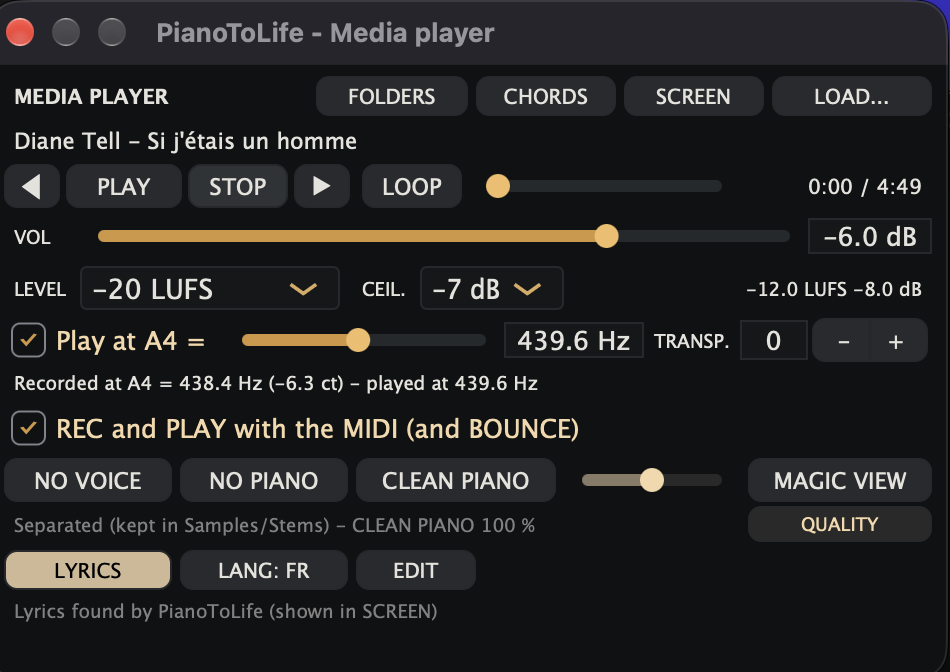
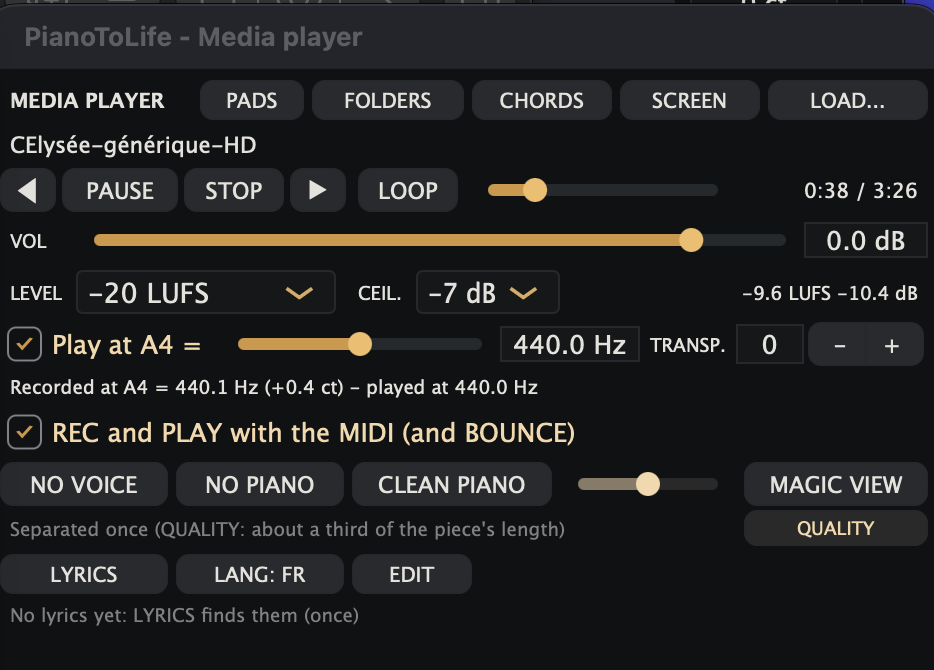
Add files via upload

diff --git a/README.md b/README.md
@@ -6,7 +6,7 @@ with one live, physically modelled string engine — from a single held key to e
 <p align="center"><b>New in 10:</b> no hosted piano needed — play your own samples with the built-in sampler.<br>Pedal-up samples are enough: resonance, pedals and noises are modelled live (hybrid sampling + modelling).</p>
 
 <p align="center">
-  <img src="Screenshot-A.png?v=1124" alt="PianoToLife: the main window (SAMPLER mode, a sampled Steinway B)" width="900">
+  <img src="Screenshot-A.png?v=1125" alt="PianoToLife: the main window (SAMPLER mode, a sampled Steinway B)" width="900">
 </p>
 
 <p align="center">
@@ -53,7 +53,7 @@ release or resonance samples. A 3- to 6-layer pedal-up library is enough: PianoT
 so it plays like a deeply sampled piano, even when the library is badly cut or normalised.
 
 <p align="center">
-  <img src="Screenshot-E.png?v=1124" alt="SAMPLER EDIT: the DRY / DENOISE / BODY panel" width="900">
+  <img src="Screenshot-E.png?v=1125" alt="SAMPLER EDIT: the DRY / DENOISE / BODY panel" width="900">
 </p>
 
 
@@ -63,7 +63,7 @@ Load a song, a playlist, a folder or a video, and play your piano with it. The M
 (29 EUR or 29 USD minimum, one payment, no subscription; 3 minutes of demo per session without the password).
 
 <p align="center">
-  <img src="Screenshot-B.png?v=1124" alt="The MEDIA player: FOLDERS, LEVEL and CEIL., Play at A4 and TRANSP., NO VOICE / NO PIANO / CLEAN PIANO, LYRICS" width="640">
+  <img src="Screenshot-B.png?v=1125" alt="The MEDIA player: PADS, FOLDERS, LEVEL and CEIL., Play at A4 and TRANSP., NO VOICE / NO PIANO / CLEAN PIANO, LYRICS" width="640">
 </p>
 
 - **NO VOICE / NO PIANO / CLEAN PIANO**: the piece separated once on your computer (kept in Samples/Stems), then played
@@ -72,11 +72,17 @@ Load a song, a playlist, a folder or a video, and play your piano with it. The M
   moves it up to 6 semitones higher or lower, its tempo kept. Both are remembered for each piece.
 - **LEVEL and CEIL.**: every file at the same loudness (-14 to -23 LUFS), its own true-peak ceiling (-1 to -7 dB).
 - **REC and PLAY with the MIDI**: your take and the recording start together; BOUNCE can put the recording in the file.
-- **FOLDERS** and **SEARCH**: your folders of pieces as playlists, **virtual folders** (PLAYED and your own lists), and a
-  search that ignores case, accents and punctuation.
+- **FOLDERS** and **SEARCH**: your folders of pieces as playlists, **virtual folders** (PLAYED, STEMS READY and your own
+  lists), and a search that ignores case, accents and punctuation; the pieces already separated show a green dot.
+- **PADS**: your pieces, videos and jingles on 80 pads, launched with a click or your MIDI controller — in the player
+  (MEDIA) or over everything (PAD).
 - **Any format, any audio track** (optional): with FFmpeg installed on your computer, PianoToLife also reads MKV, WebM,
   Opus, APE, WavPack, DSD… shows the picture of any video (AV1, MKV, WebM...) and lets you choose the audio track of a
   film in several languages.
+
+<p align="center">
+  <img src="Screenshot-F.png?v=1125" alt="PADS: 4 x 4 pads on 5 pages, a MIDI controller, MEDIA or PAD, TOGGLE or HOLD, MIDI LEARN" width="640">
+</p>
 
 > **Disk space.** A file that macOS or Windows cannot read directly — a video's sound (MP4, MOV...), a format decoded by
 > FFmpeg (MKV, WebM, Opus...) or another audio track of a film — is decoded **once and kept** in a cache on your
@@ -88,7 +94,7 @@ Load a song, a playlist, a folder or a video, and play your piano with it. The M
 > large disk for it.
 
 <p align="center">
-  <img src="Screenshot-D.png?v=1124" alt="SCREEN with the lyrics, CHORDS, the MEDIA player and MAGIC VIEW with its staff" width="900">
+  <img src="Screenshot-D.png?v=1125" alt="SCREEN with the lyrics, CHORDS, the MEDIA player and MAGIC VIEW with its staff" width="900">
 </p>
 
 - **CHORDS**: the chords and the key of the piece, scrolling in time with it (and transposed with it).
@@ -99,7 +105,7 @@ Load a song, a playlist, a folder or a video, and play your piano with it. The M
 ### LYRICS: found, corrected, in time
 
 <p align="center">
-  <img src="Screenshot-C.png?v=1124" alt="LYRICS EDIT: the lyrics proposed by LRCLIB on the left, aligned on the voice on the right" width="900">
+  <img src="Screenshot-C.png?v=1125" alt="LYRICS EDIT: the lyrics proposed by LRCLIB on the left, aligned on the voice on the right" width="900">
 </p>
 
 - **LYRICS** listens to the separated voice of the piece and writes its lyrics in time (Whisper, on your computer). The
@@ -111,7 +117,20 @@ Load a song, a playlist, a folder or a video, and play your piano with it. The M
 
 ---
 
-## What's new in 11.2.4
+## What's new in 11.2.5
+
+**PADS for the live, and your separated pieces at a glance.**
+
+- **PADS** (left of FOLDERS): 4 x 4 pads on 5 pages that slide. Drop audio or video files on them — each pad shows the
+  cover or a picture of the video — and play them with a click or your **MIDI controller (MIDI LEARN** per pad and for
+  the pages; it works with the window closed). **MEDIA** pads play in the media player (stems, lyrics, SCREEN...);
+  **PAD** pads play over everything and add up (their own level). **TOGGLE** (a click plays, another one stops) or
+  **HOLD** (plays while held).
+- **No pop, no click**: 100 ms fades when a pad starts or stops, and each piece of the player comes in smoothly.
+- **STEMS READY**: a virtual folder that fills itself with the pieces already separated — and everywhere, a **green dot
+  and bold names** show the pieces whose NO VOICE / NO PIANO is instant.
+
+### Also in 11.2.4
 
 **Karaoke lyrics, no separation you didn't ask for, and Check by ear at any tuning.**
 

diff --git a/MANUEL.md b/MANUEL.md
@@ -1,6 +1,6 @@
 # PianoToLife — Manuel d'utilisation
 
-*Version 11.2.4 · [English version](USER_MANUAL.md) · Mapping du sampler : [Manuel du sampler](MANUEL_SAMPLER.md)*
+*Version 11.2.5 · [English version](USER_MANUAL.md) · Mapping du sampler : [Manuel du sampler](MANUEL_SAMPLER.md)*
 
 PianoToLife fait **se comporter un piano virtuel comme un vrai** : les cordes qui résonnent par sympathie, la pédale
 de sustain et la demi-pédale, les étouffoirs, le relâchement, l'una corda, les bruits de la mécanique. Ce manuel
@@ -666,6 +666,19 @@ s'entend souvent tout de suite : la salle du piano se révèle, au lieu d'être 
   - **Dossier virtuel à gauche** (11.2.4) : dans la fenêtre des dossiers virtuels, la liste de gauche propose aussi les
     dossiers virtuels (PLAYED compris) : tout sélectionner (Cmd / Ctrl + A) puis ADD pour verser une liste entière dans
     une autre.
+  - **PADS** (11.2.5, à gauche de FOLDERS) : 4 x 4 pads sur 5 pages (◀ ▶, elles glissent). Déposez des fichiers audio ou
+    vidéo sur les pads (plusieurs fichiers remplissent les pads suivants), ou cliquez sur un pad vide ; chaque pad montre
+    la pochette ou une image de la vidéo (par FFmpeg) et son nom. Clic : jouer. Clic droit : **MEDIA (A)** — dans le
+    lecteur, comme un morceau (stems, paroles, SCREEN...) — ou **PAD (B)** — par-dessus tout, les pads B se cumulent, au
+    niveau **PAD VOL** et sous le CEIL. du lecteur ; **TOGGLE** (un clic lance, un autre arrête) ou **HOLD** (joue tant
+    qu'on tient) ; **MIDI LEARN** (puis jouez une touche, un pad ou un CC du périphérique choisi en haut) ; oublier son
+    MIDI ; vider le pad. Clic droit sur ◀ ▶ : leur MIDI LEARN. Le MIDI des pads marche sur toutes les pages et fenêtre
+    fermée. **STOP ALL** arrête tout. Fondus de 100 ms : ni pop ni clic. Rangés dans *SympResHost Pads.json*, à côté des
+    réglages.
+  - **STEMS READY** (11.2.5) : un dossier virtuel fait par PianoToLife — les morceaux déjà séparés (chaque séparation
+    écrit *source.txt* dans son dossier Stems ; les plus anciens sont retrouvés depuis FOLDERS et les dossiers
+    virtuels). Dans les listes (la playlist et sa recherche, les dossiers virtuels) et sur les pads, **un point vert et
+    un nom en gras** les signalent.
   - **Place sur le disque** (11.2.1) : un fichier que le système ne lit pas directement — le son d'une vidéo, un format
     décodé par FFmpeg ou une autre piste audio — est décodé une fois et **gardé** dans un cache (Mac : `~/Library/
     Application Support/PianoToLife/Video sound` ; Windows : `%APPDATA%\PianoToLife\Video sound`), les 30 plus récents ;

diff --git a/USER_MANUAL.md b/USER_MANUAL.md
@@ -1,6 +1,6 @@
 # PianoToLife — User Manual
 
-*Version 11.2.4 · [Version française](MANUEL.md) · Sampler mapping: [Sampler Manual](SAMPLER_MANUAL.md)*
+*Version 11.2.5 · [Version française](MANUEL.md) · Sampler mapping: [Sampler Manual](SAMPLER_MANUAL.md)*
 
 PianoToLife makes a virtual piano **behave like a real one**: the strings that ring in sympathy, the sustain pedal
 and half pedal, the dampers, the release, the una corda, the noises of the mechanism. This manual explains how it
@@ -616,6 +616,17 @@ saved beside it, then the BOUNCE options open); PLAY plays the take at once. LOA
     every piece; the `.lrc` is not changed (EDIT's OFFSET corrects a piece's file).
   - **Virtual folder on the left** (11.2.4): in the virtual folders' window, the left list also offers the virtual
     folders (PLAYED too): select all (Cmd / Ctrl + A) and ADD to put a whole list into another one.
+  - **PADS** (11.2.5, left of FOLDERS): 4 x 4 pads on 5 pages (◀ ▶, they slide). Drop audio or video files on the pads
+    (several files fill the pads that follow), or click an empty pad; each pad shows the cover or a picture of the video
+    (through FFmpeg) and its name. Click: play. Right-click: **MEDIA (A)** — in the media player, as a piece (stems,
+    lyrics, SCREEN...) — or **PAD (B)** — over everything, the B pads add up, at **PAD VOL** and through the media's
+    CEIL.; **TOGGLE** (a click plays, another one stops) or **HOLD** (plays while held); **MIDI LEARN** (then play a key, a
+    pad or a CC of the device chosen at the top); forget its MIDI; empty the pad. Right-click on ◀ ▶: their MIDI LEARN.
+    The MIDI of the pads works on every page and with the window closed. **STOP ALL** stops everything. 100 ms fades:
+    no pop, no click. Kept in *SympResHost Pads.json*, beside the settings.
+  - **STEMS READY** (11.2.5): a virtual folder made by PianoToLife — the pieces already separated (each separation writes
+    *source.txt* in its Stems folder; older ones are found from FOLDERS and the virtual folders). In the lists (the
+    playlist and its SEARCH, the virtual folders) and on the pads, a **green dot and a bold name** show them.
   - **Disk space** (11.2.1): a file the system cannot read directly — a video's sound, a format decoded by FFmpeg, or
     another audio track — is decoded once and **kept** in a cache (Mac: `~/Library/Application Support/PianoToLife/Video
     sound`; Windows: `%APPDATA%\PianoToLife\Video sound`), the 30 newest; a long film can take more than 1 GB. Delete

diff --git a/CHANGELOG.md b/CHANGELOG.md
@@ -2,6 +2,19 @@
 
 Every version, the newest first. The [README](README.md) shows what PianoToLife does today.
 
+## 11.2.5
+
+**PADS for the live, and your separated pieces at a glance.**
+
+- **PADS** (left of FOLDERS): 4 x 4 pads on 5 pages that slide. Drop audio or video files on them — each pad shows the
+  cover or a picture of the video — and play them with a click or your **MIDI controller (MIDI LEARN** per pad and for
+  the pages; it works with the window closed). **MEDIA** pads play in the media player (stems, lyrics, SCREEN...);
+  **PAD** pads play over everything and add up (their own level). **TOGGLE** (a click plays, another one stops) or
+  **HOLD** (plays while held).
+- **No pop, no click**: 100 ms fades when a pad starts or stops, and each piece of the player comes in smoothly.
+- **STEMS READY**: a virtual folder that fills itself with the pieces already separated — and everywhere, a **green dot
+  and bold names** show the pieces whose NO VOICE / NO PIANO is instant.
+
 ## 11.2.4
 
 **Karaoke lyrics, no separation you didn't ask for, and Check by ear at any tuning.**

diff --git a/MANUEL_SAMPLER.md b/MANUEL_SAMPLER.md
@@ -1,6 +1,6 @@
 # Sampler de PianoToLife — Manuel d'utilisation
 
-*Version 11.2.4 · [English version](SAMPLER_MANUAL.md) · Manuel général : [Manuel d'utilisation](MANUEL.md)*
+*Version 11.2.5 · [English version](SAMPLER_MANUAL.md) · Manuel général : [Manuel d'utilisation](MANUEL.md)*
 
 Le sampler intégré de PianoToLife joue **vos propres échantillons de piano**, avec tous les moteurs de PianoToLife
 par-dessus. Ce manuel explique comment transformer un dossier d'échantillons en piano jouable, ce que fait chaque

diff --git a/SAMPLER_MANUAL.md b/SAMPLER_MANUAL.md
@@ -1,6 +1,6 @@
 # PianoToLife Sampler — User Manual
 
-*Version 11.2.4 · [Version française](MANUEL_SAMPLER.md) · General manual: [User Manual](USER_MANUAL.md)*
+*Version 11.2.5 · [Version française](MANUEL_SAMPLER.md) · General manual: [User Manual](USER_MANUAL.md)*
 
 PianoToLife's built-in sampler plays **your own piano samples** with all of PianoToLife's engines on top of
 them. This manual explains how to turn a folder of samples into a playable piano, what every button does, and
